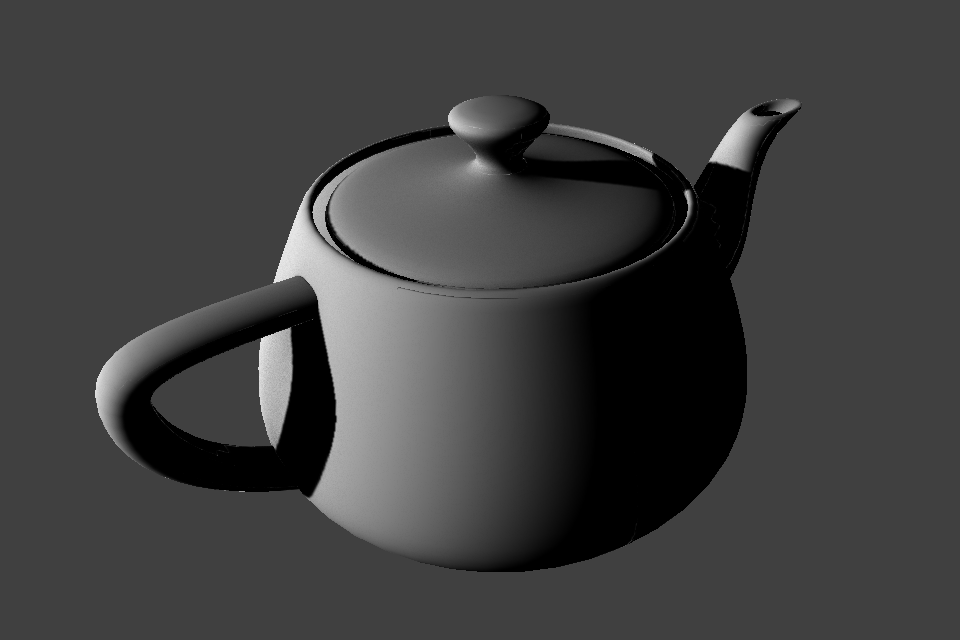
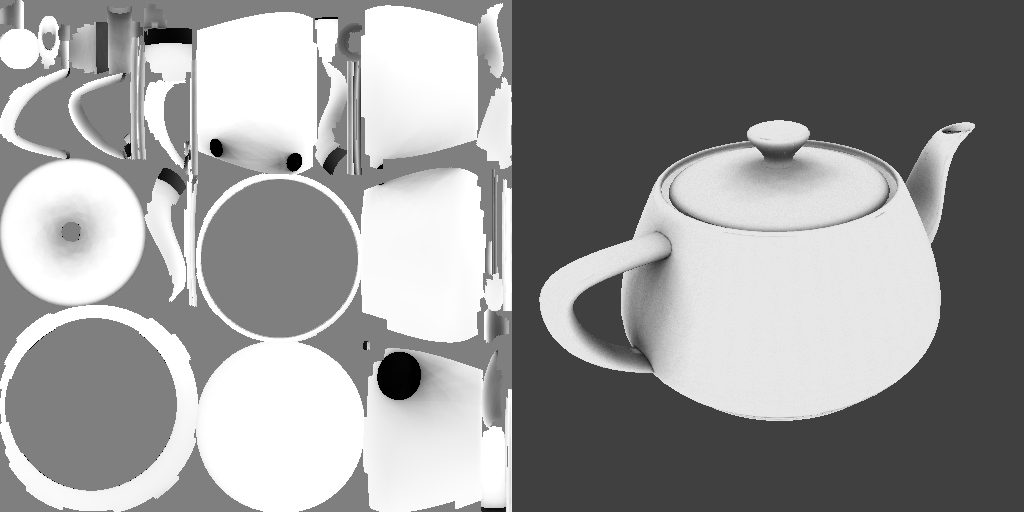
proper AO

diff --git a/lightmap.cpp b/lightmap.cpp
@@ -377,9 +377,9 @@ void moDestroyBVH(MoBVH bvh)
     delete bvh;
 }
 
-bool moIntersectBVH(MoBVH bvh, const MoRay& ray, MoTriangle& intersection, MoIntersectBVHAlgorithm* pAlgorithm)
+bool moIntersectBVH(MoBVH bvh, const MoRay& ray, MoIntersectResult& intersection, MoIntersectBVHAlgorithm* pAlgorithm)
 {
-    float intersectionDistance = std::numeric_limits<float>::max();
+    intersection.distance = std::numeric_limits<float>::max();
     float bbhits[4];
     std::uint32_t closer, other;
 
@@ -402,7 +402,7 @@ bool moIntersectBVH(MoBVH bvh, const MoRay& ray, MoTriangle& intersection, MoInt
         stackPtr--;
         const MoBVHSplitNode& node = bvh->pSplitNodes[index];
 
-        if (near > intersectionDistance)
+        if (near > intersection.distance)
         {
             continue;
         }
@@ -411,17 +411,15 @@ bool moIntersectBVH(MoBVH bvh, const MoRay& ray, MoTriangle& intersection, MoInt
         {
             for (std::uint32_t i = 0; i < node.count; ++i)
             {
-                const MoTriangle& obj = bvh->pObjects[node.start + i];
-                float currentDistance = pAlgorithm->intersectObj(ray, obj);
+                intersection.pTriangle = &bvh->pObjects[node.start + i];
+                float currentDistance = pAlgorithm->intersectObj(ray, *intersection.pTriangle);
                 if (currentDistance <= 0.0)
                 {
-                    intersection = obj;
                     return true;
                 }
-                if (currentDistance < intersectionDistance)
+                if (currentDistance < intersection.distance)
                 {
-                    intersection = obj;
-                    intersectionDistance = currentDistance;
+                    intersection.distance = currentDistance;
                 }
             }
         }
@@ -468,7 +466,7 @@ bool moIntersectBVH(MoBVH bvh, const MoRay& ray, MoTriangle& intersection, MoInt
         }
     }
 
-    return intersectionDistance < std::numeric_limits<float>::max();
+    return intersection.distance < std::numeric_limits<float>::max();
 }
 
 void moCreateTriangleList(const aiMesh * ai_mesh, MoTriangleList *pTriangleList)
@@ -542,6 +540,29 @@ float moDegreesToRadians(float angle)
 
 void moGenerateLightMap(const MoTriangleList mesh, MoTextureSample* pTextureSamples, const MoLightmapCreateInfo* pCreateInfo)
 {
+    static std::random_device rd{};
+    static std::mt19937 gen{rd()};
+    static float3* sVectorList = nullptr;
+    static std::uint32_t sVectorListSize = 0;
+
+    if (sVectorListSize < pCreateInfo->ambiantLightingSampleCount)
+    {
+        std::uniform_real_distribution<float> genX(-1.f, 1.f);
+        std::uniform_real_distribution<float> genY(-1.f, 1.f);
+        std::uniform_real_distribution<float> genZ(-1.f, 1.f);
+
+        std::uint32_t at = sVectorListSize;
+        carray_resize(&sVectorList, &sVectorListSize, pCreateInfo->ambiantLightingSampleCount);
+        while (at < sVectorListSize)
+        {
+            float3 vect(genX(gen), genY(gen), genZ(gen));
+            if (length2(vect) < 1.f)
+            {
+                sVectorList[at++] = normalize(vect);
+            }
+        }
+    }
+
 #define MO_UV_MULTISAMPLE_OFFSET 1.0f
 #define MO_SURFACE_BIAS 0.01f
     MoIntersectBVHAlgorithm intersectAlgorithm;
@@ -550,7 +571,7 @@ void moGenerateLightMap(const MoTriangleList mesh, MoTextureSample* pTextureSamp
         float3 intersectionPoint;
         if (moRayTriangleIntersect(ray, object, intersectionPoint))
         {
-            return 0.0;
+            return length(intersectionPoint - ray.origin);
         }
         return std::numeric_limits<float>::max();
     };
@@ -583,17 +604,10 @@ void moGenerateLightMap(const MoTriangleList mesh, MoTextureSample* pTextureSamp
         }
         threads.emplace_back(std::thread([&, row]()
         {
-            std::random_device rd{};
-            std::mt19937 gen{rd()};
-            // values near the mean are the most likely
-            // standard deviation affects the dispersion of generated values from the mean
-            std::normal_distribution<float> theta{pCreateInfo->sunThetaPhi.x, pCreateInfo->sunSpread};
-            std::normal_distribution<float> phi{pCreateInfo->sunThetaPhi.y, pCreateInfo->sunSpread};
-
             for (std::uint32_t column = 0; column < pCreateInfo->width; ++column)
             {
-                float2 uv((column + 0.5) / float(pCreateInfo->width), (row + 0.5) / float(pCreateInfo->height));
-                MoTriangle intersection;
+                float2 uv((column + 0.5f) / float(pCreateInfo->width), (row + 0.5f) / float(pCreateInfo->height));
+                MoIntersectResult intersectionUV = {};
 
                 std::uint32_t index = (pCreateInfo->height - row - 1) * pCreateInfo->width + column;
 
@@ -605,43 +619,62 @@ void moGenerateLightMap(const MoTriangleList mesh, MoTextureSample* pTextureSamp
                                         };
                 for (float3 singleTexel : multiTexels)
                 {
-                    if (moIntersectBVH(mesh->bvhUV, MoRay(singleTexel, {0,0,1}), intersection, &uvIntersectAlgorithm))
+                    if (moIntersectBVH(mesh->bvhUV, MoRay(singleTexel, {0,0,1}), intersectionUV, &uvIntersectAlgorithm))
                     {
-                        float3 barycentricCoordinates = intersection.uvBarycentric(uv);
-                        float3 world = intersection.v0 * barycentricCoordinates[0]
-                                + intersection.v1 * barycentricCoordinates[1]
-                                + intersection.v2 * barycentricCoordinates[2];
+                        const MoTriangle& triangle = *intersectionUV.pTriangle;
 
-                        float3 normal = intersection.n0 * barycentricCoordinates[0]
-                                + intersection.n1 * barycentricCoordinates[1]
-                                + intersection.n2 * barycentricCoordinates[2];
+                        float3 barycentricCoordinates = triangle.uvBarycentric(uv);
+                        float3 world = triangle.v0 * barycentricCoordinates[0]
+                                + triangle.v1 * barycentricCoordinates[1]
+                                + triangle.v2 * barycentricCoordinates[2];
+
+                        float3 surfaceNormal = triangle.n0 * barycentricCoordinates[0]
+                                + triangle.n1 * barycentricCoordinates[1]
+                                + triangle.n2 * barycentricCoordinates[2];
+                        surfaceNormal = normalize(surfaceNormal);
 
                         float value = 0.f;
-                        for (std::uint32_t i = 0; i < pCreateInfo->sampleCount; ++i)
+                        for (std::uint32_t i = 0; i < pCreateInfo->ambiantLightingSampleCount; ++i)
                         {
-                            float3 lightDirection = moSphericalToCartesian(theta(gen), phi(gen));
+                            float3 rayCast = sVectorList[i];
                             float diffuseFactor = 1.f;
-                            if (pCreateInfo->enableDiffuse != 0)
+                            float ambiantLightingWhitePoint = 2.f; // fully lit from top hemisphere IS fully lit
+                            if (pCreateInfo->enableAmbiantLightingSurfaceDiffusion != 0)
                             {
-                                diffuseFactor = dot(normal, lightDirection);
+                                diffuseFactor = dot(surfaceNormal, rayCast);
+                                ambiantLightingWhitePoint *= 2.f;
                             }
-                            if (diffuseFactor > 0.0)
+                            if (pCreateInfo->enableAmbiantLightingSurfaceDiffusion == 0 || diffuseFactor > 0.0)
                             {
-                                if (!moIntersectBVH(mesh->bvh, MoRay(world + normal * MO_SURFACE_BIAS, lightDirection),
-                                                   intersection, &intersectAlgorithm))
+                                float contribution = diffuseFactor * (pCreateInfo->ambiantLightingContribution * ambiantLightingWhitePoint);
+                                contribution /= pCreateInfo->ambiantLightingSampleCount;
+
+                                MoIntersectResult intersection = {};
+                                if (moIntersectBVH(mesh->bvh, MoRay(world + surfaceNormal * MO_SURFACE_BIAS, rayCast), intersection, &intersectAlgorithm))
                                 {
-                                    value += pCreateInfo->sampleContribution * diffuseFactor / pCreateInfo->sampleCount;
+                                    if (intersection.distance < pCreateInfo->ambiantOcclusionDistance)
+                                    {
+                                        // we're occluded
+                                        contribution *= 0.f;
+                                    }
+                                    else
+                                    {
+                                        // smooth transition
+                                        contribution *= std::min(intersection.distance - pCreateInfo->ambiantOcclusionDistance, pCreateInfo->ambiantOcclusionDistance) / pCreateInfo->ambiantOcclusionDistance;
+                                    }
                                 }
+
+                                value += contribution;
                             }
                         }
                         pTextureSamples[index].x = pTextureSamples[index].y = pTextureSamples[index].z = std::uint8_t(std::min(255.f, value * 255));
-                        pTextureSamples[index].w = pCreateInfo->defaultColor.w;
+                        pTextureSamples[index].w = pCreateInfo->nullColor.w;
                         break;
                     }
                 }
                 if (pTextureSamples[index].w == 0)
                 {
-                    pTextureSamples[index] = pCreateInfo->defaultColor;
+                    pTextureSamples[index] = pCreateInfo->nullColor;
                 }
             }
         }));

diff --git a/lightmap.h b/lightmap.h
@@ -102,7 +102,13 @@ struct MoIntersectBVHAlgorithm
     bool (*intersectBBox)(const MoRay& ray, const MoBBox&, float*, float*);
 };
 
-bool moIntersectBVH(MoBVH bvh, const MoRay& ray, MoTriangle &intersection, MoIntersectBVHAlgorithm* pAlgorithm);
+struct MoIntersectResult
+{
+    const MoTriangle* pTriangle;
+    float distance;
+};
+
+bool moIntersectBVH(MoBVH bvh, const MoRay& ray, MoIntersectResult& intersection, MoIntersectBVHAlgorithm* pAlgorithm);
 
 struct aiMesh;
 
@@ -125,14 +131,21 @@ linalg::aliases::float3 moSphericalToCartesian(float theta, float phi);
 float moDegreesToRadians(float angle);
 
 struct MoLightmapCreateInfo {
-    linalg::aliases::float2 sunThetaPhi;   //angles (2)
-    float                   sunSpread;     //angle
-    std::uint32_t           enableDiffuse; // enable phong-like diffuse
-    std::uint32_t           sampleCount;
-    float                   sampleContribution;
-    linalg::aliases::byte4  defaultColor;
-    std::uint32_t           width;
-    std::uint32_t           height;
+    linalg::aliases::byte4   nullColor;
+    std::uint32_t            width;
+    std::uint32_t            height;
+    // phong-like diffuse
+    std::uint32_t            enableAmbiantLightingSurfaceDiffusion;
+    // ambiant lighting
+    std::uint32_t            ambiantLightingSampleCount;
+    float                    ambiantLightingContribution;
+    float                    ambiantOcclusionDistance;
+    // directional lighting
+    linalg::aliases::float4* pDirectionalLightSources;
+    std::uint32_t            directionalLightSourceCount;
+    // point lighting
+    linalg::aliases::float4* pPointLightSources;
+    std::uint32_t            pointLightSourceCount;
 };
 
 typedef linalg::aliases::byte4 MoTextureSample; //rgba

diff --git a/main.cpp b/main.cpp
@@ -17,7 +17,9 @@ using namespace linalg::aliases;
 
 int main(int, char**)
 {
-    std::string filename = "alley.dae";
+    float4 lightSources[1] = {{float4(normalize(float3(1,1,1)),100)}};
+
+    std::string filename = "teapot.dae";
     if (!filename.empty() && std::filesystem::exists(filename))
     {
         Assimp::Importer importer;
@@ -29,14 +31,15 @@ int main(int, char**)
             moCreateTriangleList(scene->mMeshes[meshIdx], &triangleList);
 
             MoLightmapCreateInfo info = {};
-            info.sunThetaPhi = {moDegreesToRadians(45.f), moDegreesToRadians(135.f)};
-            info.sunSpread = moDegreesToRadians(5.f);
-            info.enableDiffuse = 1;
-            info.sampleCount = 1024;
-            info.sampleContribution = 1.f;
-            info.defaultColor = {127,127,127,255};
+            info.nullColor = {127,127,127,255};
             info.width = 512;
             info.height = 512;
+            info.enableAmbiantLightingSurfaceDiffusion = 1;
+            info.ambiantLightingSampleCount = 512;
+            info.ambiantLightingContribution = 1.f;
+            info.ambiantOcclusionDistance = 1.f;
+            info.pDirectionalLightSources = lightSources;
+            info.directionalLightSourceCount = 1;
             std::vector<MoTextureSample> output(info.width * info.height, {0,0,0,0});
             moGenerateLightMap(triangleList, output.data(), &info);
             moDestroyTriangleList(triangleList);
